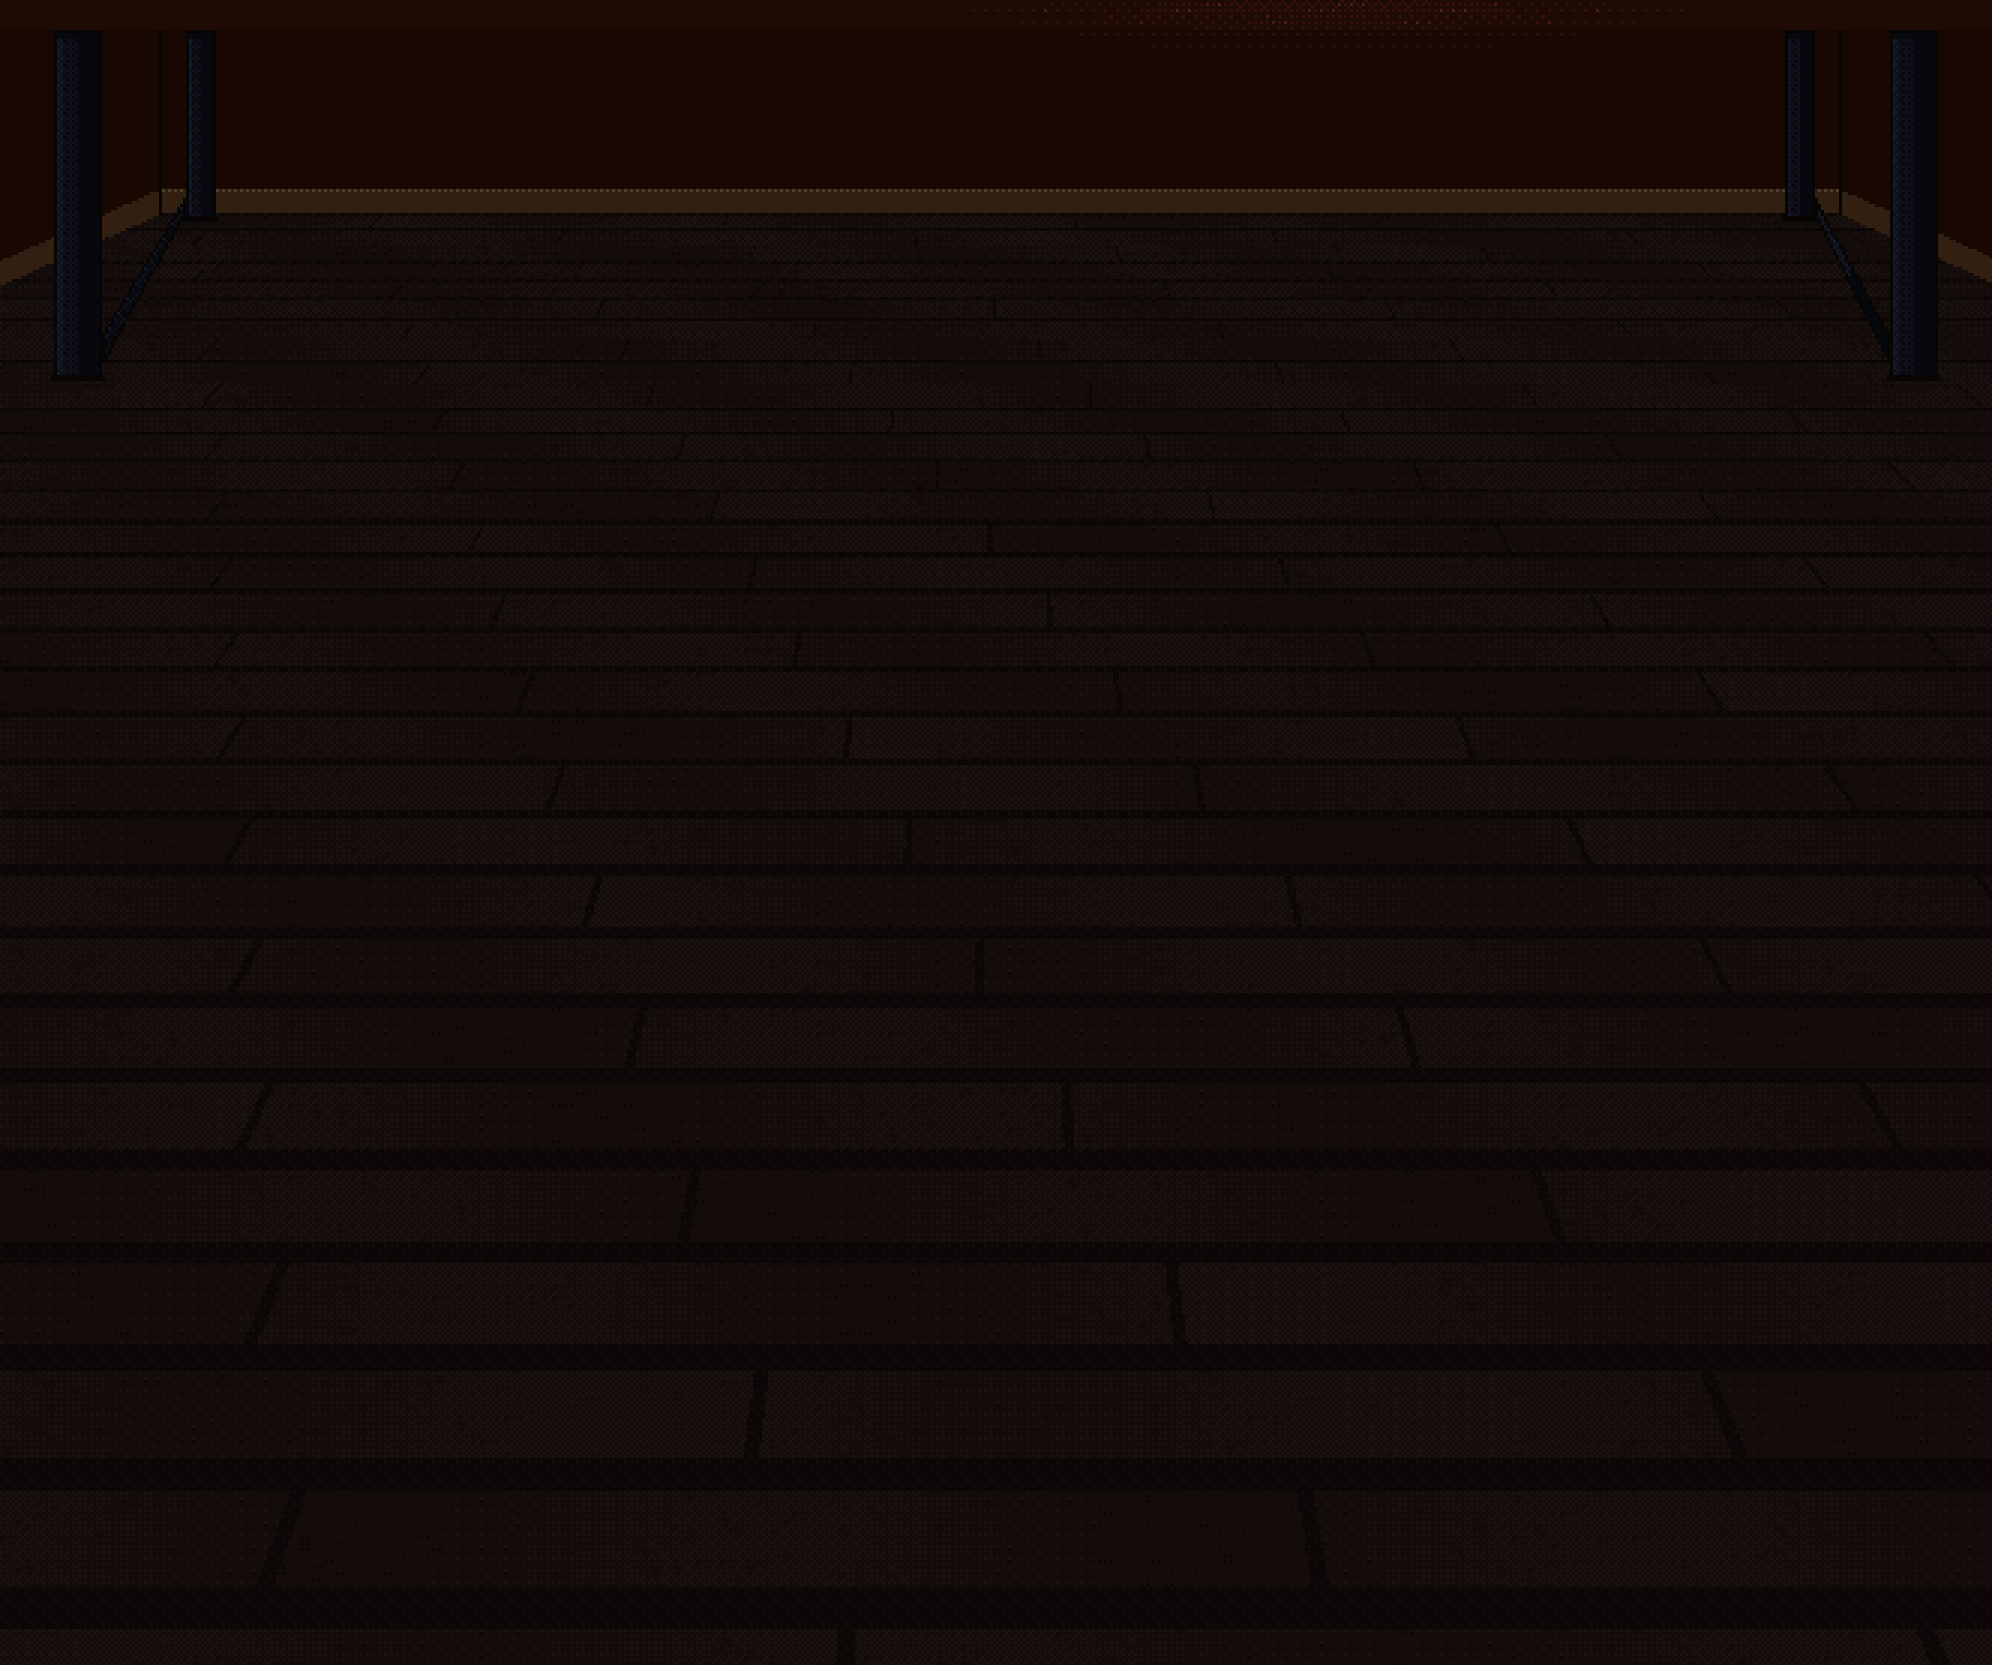
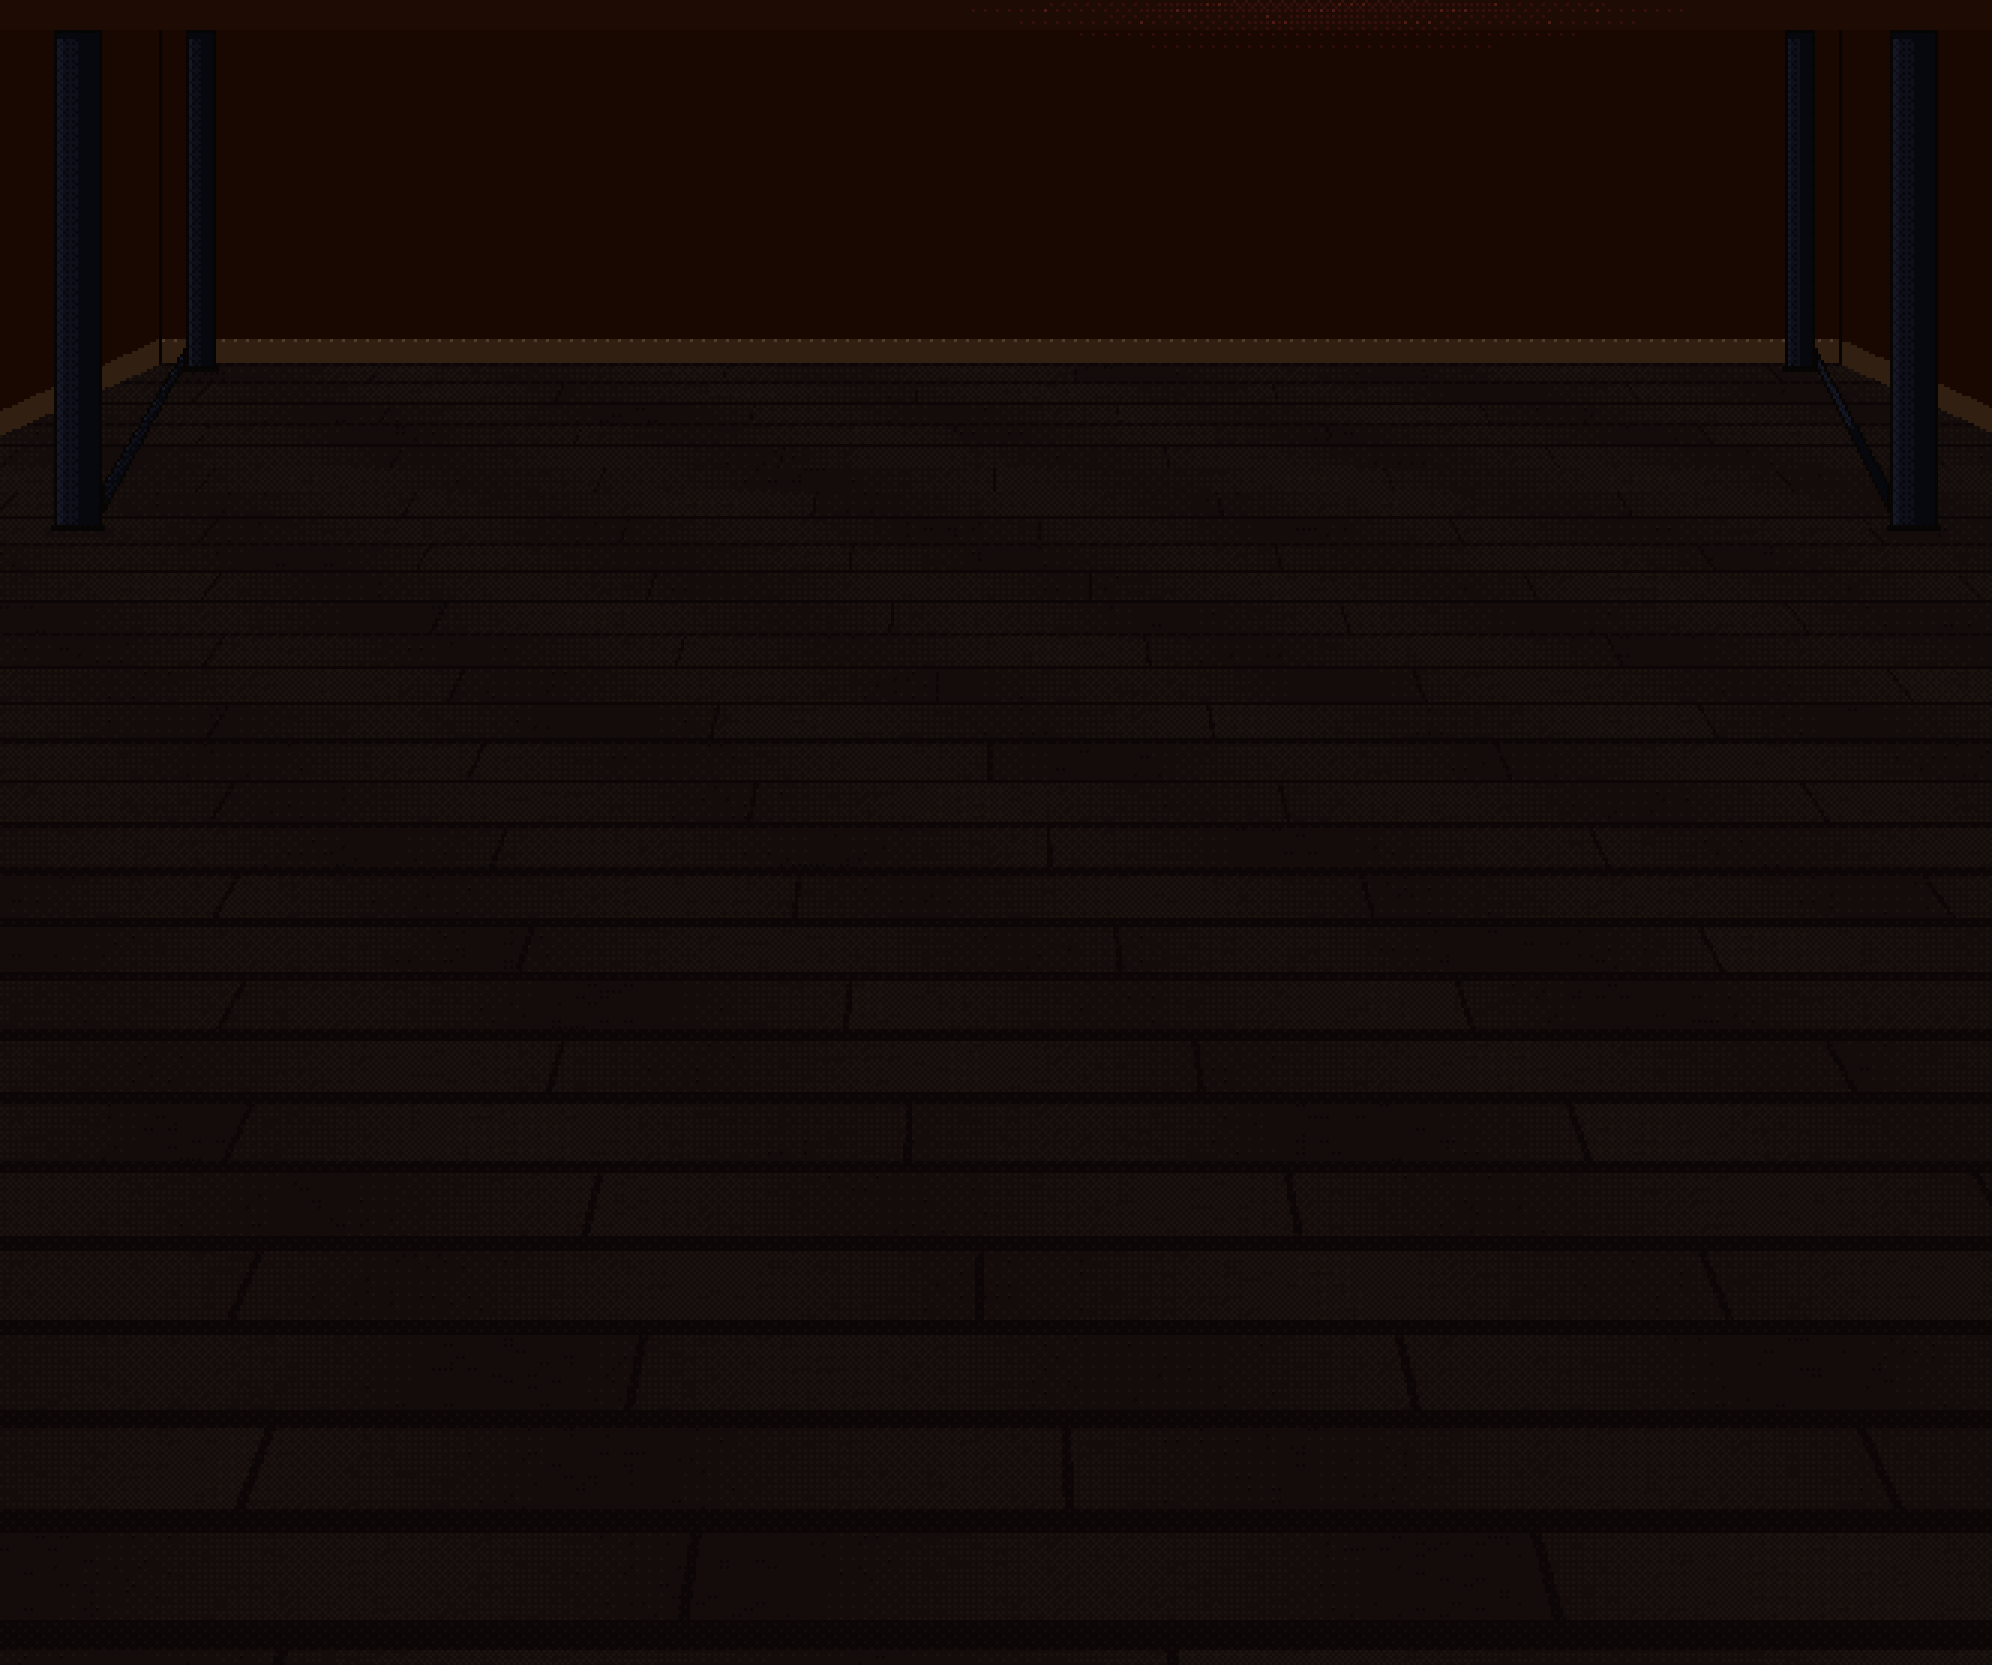
Phone view: longer desk legs, the floor lower, the desk where it was
The legs run 36 u further down to the floor, taking the skirting and the
floorboards with them. The phone framing now anchors on the desk's front edge
(deskPx in room.json) instead of the floor's back edge, so the desk and all
that stands on it keep their place on screen and only the ground moves down.
Desktop is unchanged.

Changed region(s): [[0.0622, 0.1874, 0.9337, 0.2186], [0.9337, 0.2186, 1.0, 0.2811], [0.0, 0.2186, 0.0622, 0.2811]]

diff --git a/scripts/desk-room.js b/scripts/desk-room.js
@@ -8,6 +8,9 @@ const W = 640, H = 316, K = W / 461, LH = 227;
 const MONITOR_DROP = 4 / K;
 /** The point the phones' bigger decks grow from (u): the middle of the foot of the low deck's studs. */
 const DECK_ANCHOR = [225, 81.5];
+/** The desk's front edge and the phones' floor along the wall (u, below the room): the legs run between them, LEG u
+ *  longer than the portrait mockup's so the ground sits lower under the same desk. */
+const DESK_FRONT = LH + 8, LEG = 36, PHONE_FLOOR = LH + 52 + LEG;
 const BAYER = [0, 8, 2, 10, 12, 4, 14, 6, 3, 11, 1, 9, 15, 7, 13, 5].map((v) => (v + 0.5) / 16);
 const hex = (h) => [1, 3, 5].map((i) => parseInt(h.slice(i, i + 2), 16));
 const clamp = (v, a, b) => (v < a ? a : v > b ? b : v);
@@ -364,7 +367,7 @@ function drawRoom(theme, on, lavaOn = true, opt = {}) {
   const ceilingLine = (x) => (x < CL ? CEILING - (CL - x) * CSLOPE : x > CR ? CEILING - (x - CR) * CSLOPE : CEILING);
   // below the desk's front edge (drawn on for phones): its front board, the dark under the desk, the skirting along
   // the wall and the floorboards running toward you
-  const APRON = LH + 8, SKIRT = LH + 46, FLOOR = LH + 52;
+  const APRON = DESK_FRONT, SKIRT = PHONE_FLOOR - 6, FLOOR = PHONE_FLOOR;
   const FSLOPE = 0.45; // the floor's edges with the side walls
   for (let Y = -OT; Y < H + OB; Y++) for (let X = 0; X < WW; X++) {
     const x = (X - OX + 0.5) / K, y = (Y + 0.5) / K;
@@ -972,5 +975,5 @@ const THEMES = [
   },
 ];
 
-if (typeof module !== 'undefined') module.exports = { MONITOR_DROP, DECK_ANCHOR, drawRoom, controllerImage, drawControllerHD, THEMES, SHARED, W, H, K };
+if (typeof module !== 'undefined') module.exports = { MONITOR_DROP, DECK_ANCHOR, DESK_FRONT, PHONE_FLOOR, drawRoom, controllerImage, drawControllerHD, THEMES, SHARED, W, H, K };
 

diff --git a/components/cinema/CinemaScene.tsx b/components/cinema/CinemaScene.tsx
@@ -91,6 +91,8 @@ interface Manifest {
     /** And this much further right (art px), centred across the closet. */
     deckDx?: number;
     /** Art px from the room's top to the floor's back edge: the standing view frames on it. */
+    /** Art px from the room's top: the desk's front edge (the phones frame on it) and the floor's back edge. */
+    deskPx: number;
     floorPx: number;
     sides: { px: number; left: string; right: string; leftOff: string; rightOff: string };
   };
@@ -422,13 +424,15 @@ function portraitPlace(vw: number, vh: number, scale: number, cx: number, cy: nu
 
 /**
  * Standing back on an upright phone, across the room: the whole closet fills the width (its side walls, the desk end
- * to end), the ceiling above and the floor below, the floor's back edge 68% of the way down (the portrait mockup).
+ * to end), the ceiling above and the floor below, the desk's front edge DESK_DOWN of the way down (where the portrait
+ * mockup's floor rule put it), so the desk stays put however long its legs are drawn.
  */
+const DESK_DOWN = 0.63;
 function portraitStanding(vw: number, vh: number): Stage {
   const { width: W, height: H } = art.size;
   const scale = vw / (W + 2 * PHONE_SIDE);
-  const floor = art.phone?.floorPx ?? H;
-  const y = Math.min(BAND_TOP * scale, Math.max(vh - (H + BAND_BOTTOM) * scale, 0.68 * vh - floor * scale));
+  const desk = art.phone?.deskPx ?? H;
+  const y = Math.min(BAND_TOP * scale, Math.max(vh - (H + BAND_BOTTOM) * scale, DESK_DOWN * vh - desk * scale));
   return { x: PHONE_SIDE * scale, y, w: W * scale, h: H * scale, scale };
 }
 

diff --git a/scripts/pixel-room.js b/scripts/pixel-room.js
@@ -10,7 +10,7 @@
 const sharp = require('sharp');
 const fs = require('fs');
 const path = require('path');
-const { drawRoom, THEMES, W, H, K, MONITOR_DROP: MD, DECK_ANCHOR } = require('./desk-room.js');
+const { drawRoom, THEMES, W, H, K, MONITOR_DROP: MD, DECK_ANCHOR, DESK_FRONT, PHONE_FLOOR } = require('./desk-room.js');
 
 const CIN = path.join(__dirname, '..', 'public', 'cinema');
 const S = 3; // site art px per pixel
@@ -184,7 +184,8 @@ async function cut(withIt, withoutIt, file, box) {
       deckDx: DECK_DX * S, // art px right, so the decks sit centred across the closet (they hang a little left of the room's middle)
       deckScale: DECK_SCALE,
       deckAnchor: DECK_ANCHOR.map((v) => +(v * F).toFixed(1)), // art px: the decks' words grow from here too
-      floorPx: +(F * (227 + 52)).toFixed(1), // the floor's back edge (art px from the room's top): the phones frame on it
+      deskPx: +(F * DESK_FRONT).toFixed(1), // the desk's front edge (art px from the room's top): the phones frame on it
+      floorPx: +(F * PHONE_FLOOR).toFixed(1), // the floor's back edge, where the wall meets it
       sides: { px: BAND_SIDE * S, left: '/cinema/side-left-phone.png', right: '/cinema/side-right-phone.png', leftOff: '/cinema/side-left-phone-off.png', rightOff: '/cinema/side-right-phone-off.png' },
     },
     bands: {
